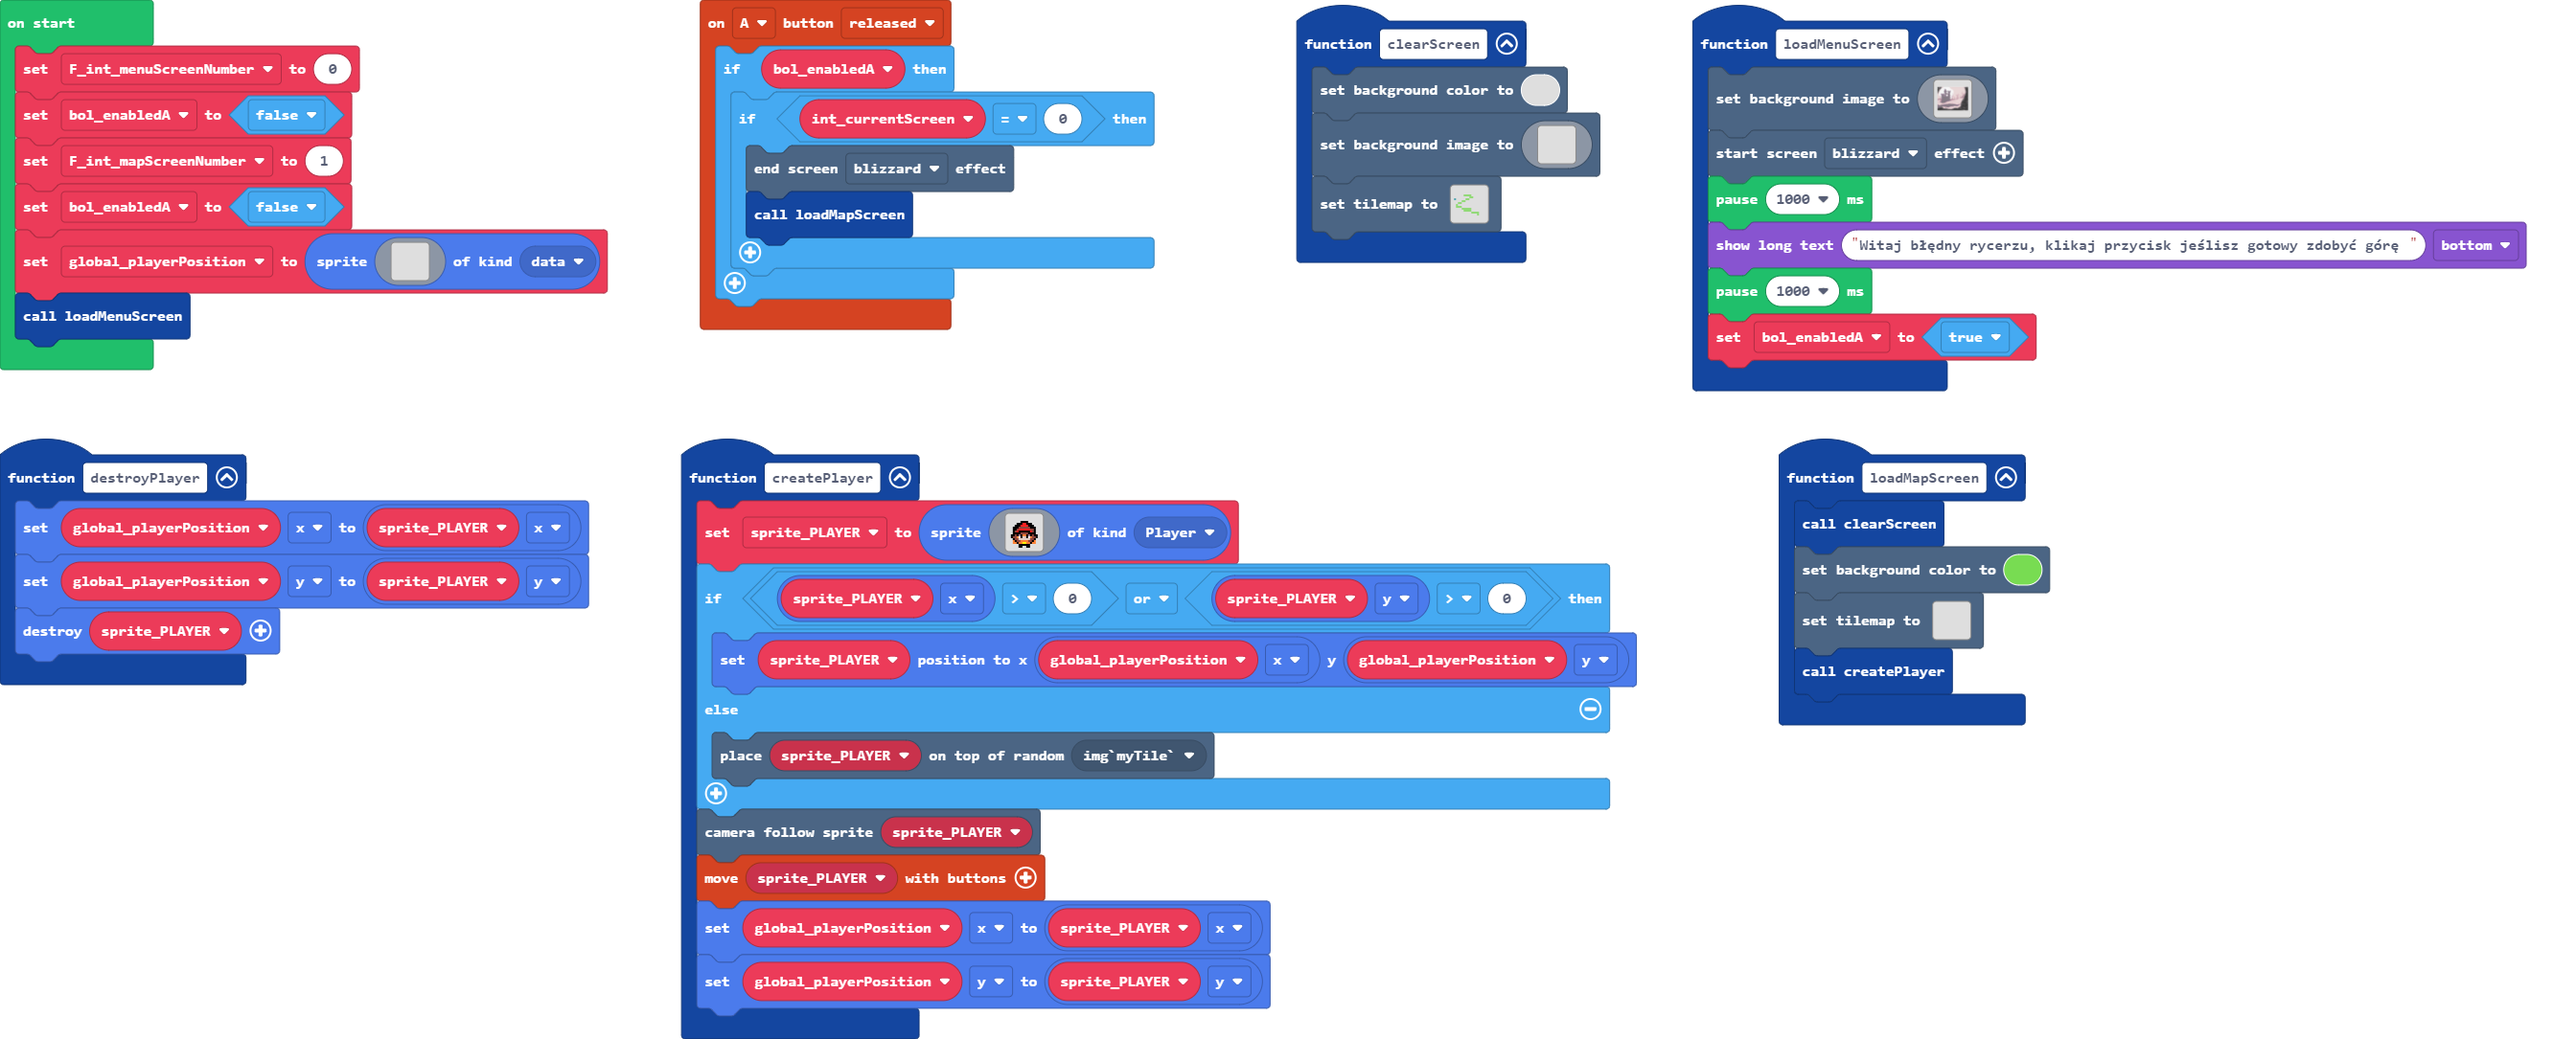
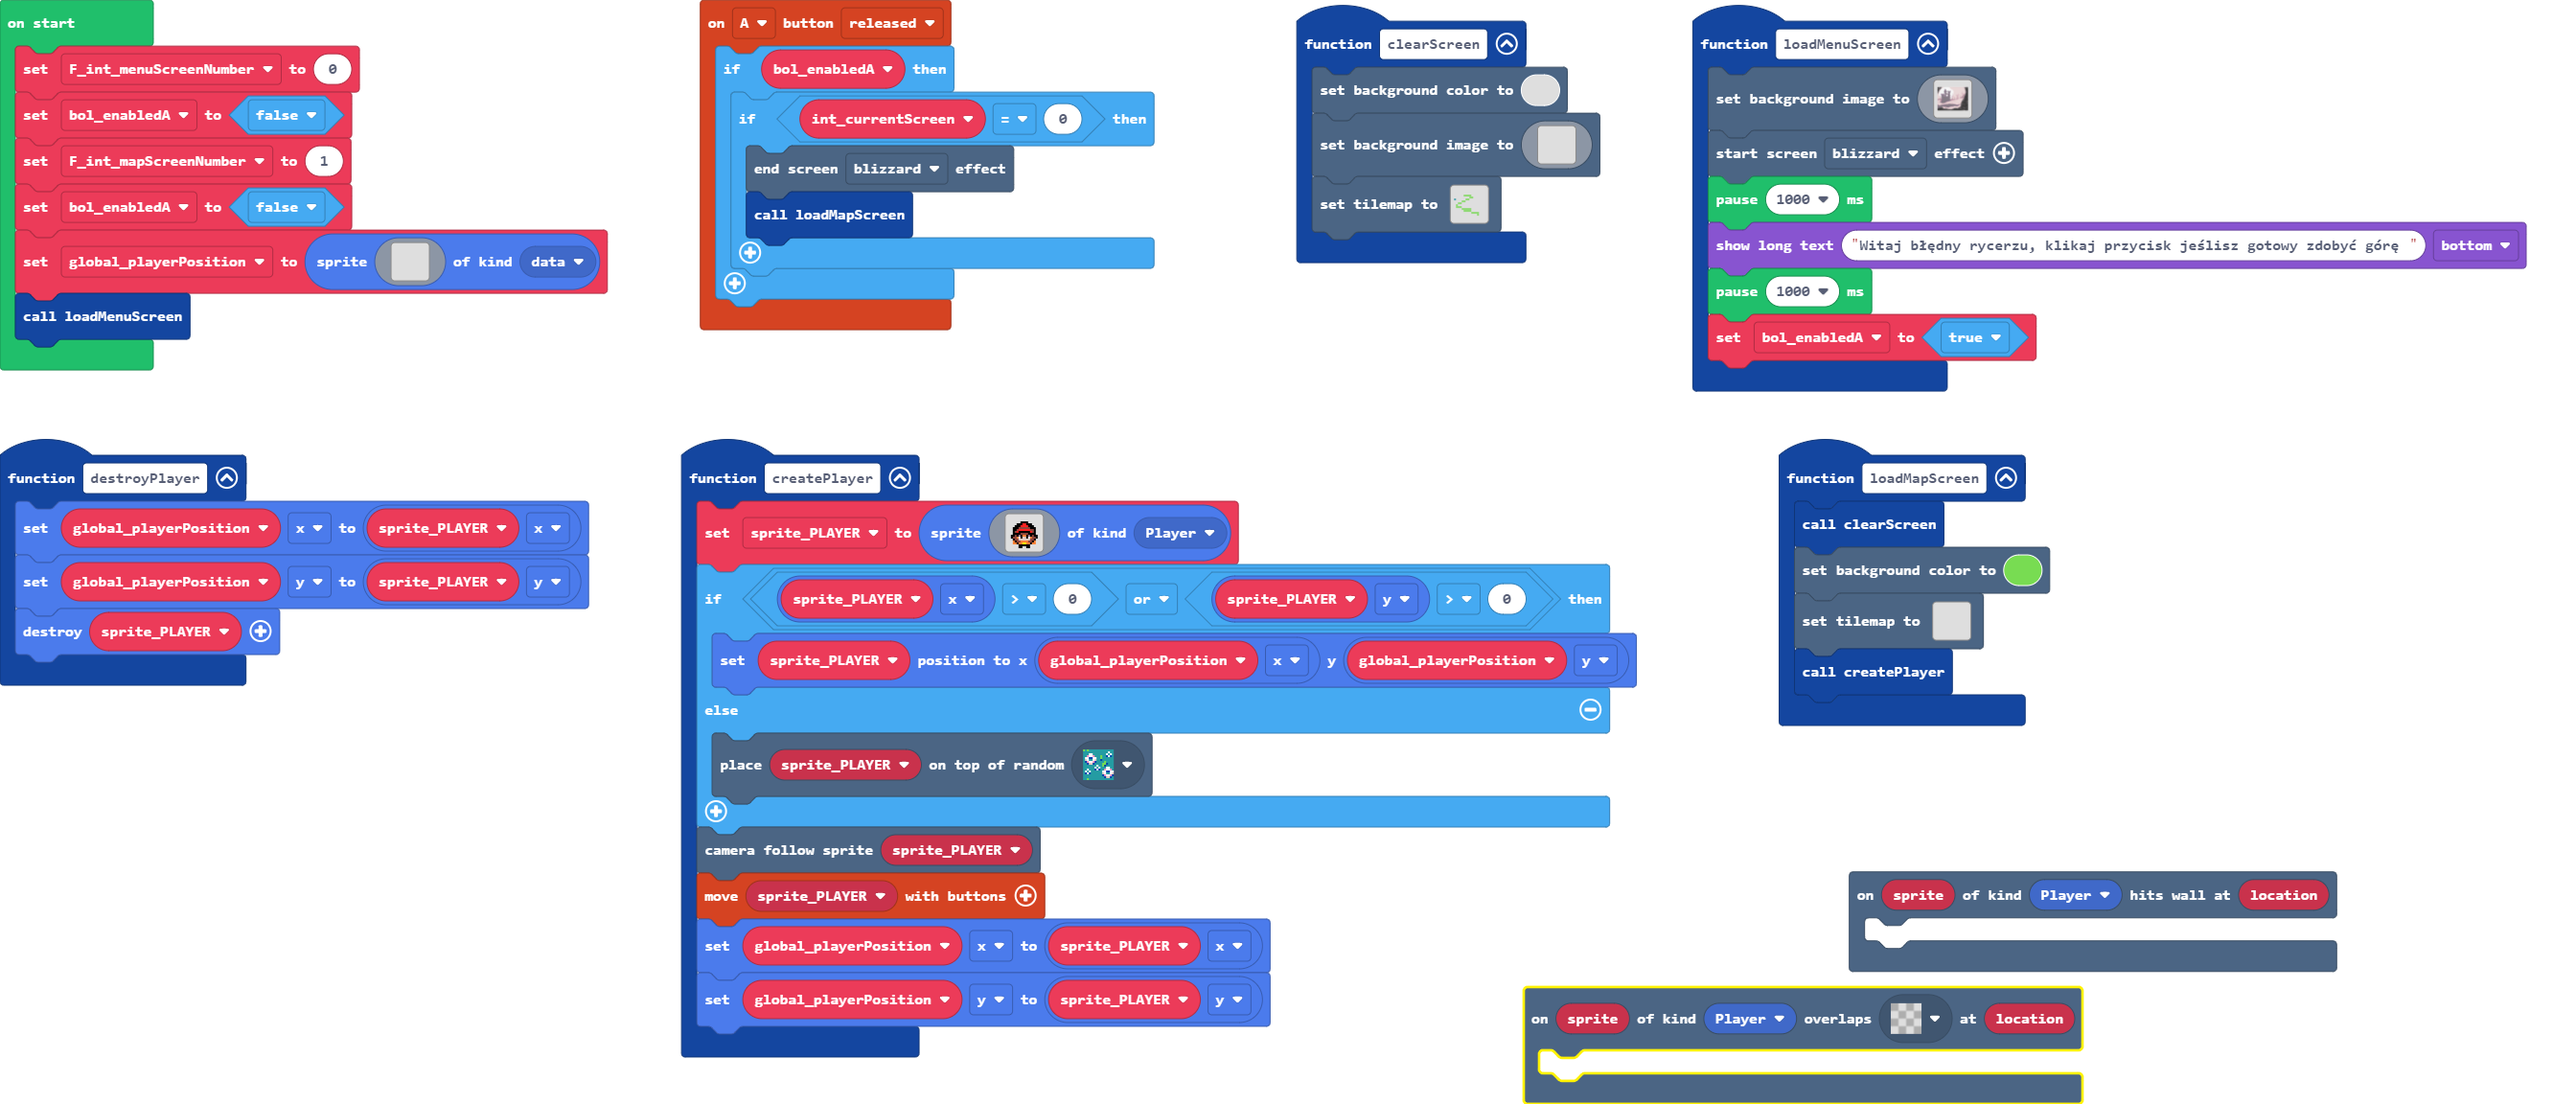
2

diff --git a/tilemap.g.ts b/tilemap.g.ts
@@ -81,6 +81,25 @@ namespace myTiles {
 . . . . . . . . . . . . . . . . 
 . . . . . . . . . . . . . . . . 
 `, [], -Infinity);
+            case "level5":
+            case "level5":return tiles.createTilemap(hex`1000100000000000000000000000000000000000000000000000000000000000000000000000000000000000000000000000000000000000000000000000000000000000000000000000000000000000000000000000000000000000000000000000000000000000000000000000000000000000000000000000000000000000000000000000000000000000000000000000000000000000000000000000000000000000000000000000000000000000000000000000000000000000000000000000000000000000000000000000000000000000000000000000000000000000000000000000000000000000000000000000000000000000000000000000000000000000`, img`
+. . . . . . . . . . . . . . . . 
+. . . . . . . . . . . . . . . . 
+. . . . . . . . . . . . . . . . 
+. . . . . . . . . . . . . . . . 
+. . . . . . . . . . . . . . . . 
+. . . . . . . . . . . . . . . . 
+. . . . . . . . . . . . . . . . 
+. . . . . . . . . . . . . . . . 
+. . . . . . . . . . . . . . . . 
+. . . . . . . . . . . . . . . . 
+. . . . . . . . . . . . . . . . 
+. . . . . . . . . . . . . . . . 
+. . . . . . . . . . . . . . . . 
+. . . . . . . . . . . . . . . . 
+. . . . . . . . . . . . . . . . 
+. . . . . . . . . . . . . . . . 
+`, [myTiles.transparency16], TileScale.Sixteen);
         }
         return null;
     })

diff --git a/main.ts b/main.ts
@@ -1,6 +1,9 @@
 namespace SpriteKind {
     export const data = SpriteKind.create()
 }
+scene.onHitWall(SpriteKind.Player, function (sprite, location) {
+	
+})
 function clearScreen () {
     scene.setBackgroundColor(0)
     scene.setBackgroundImage(img`
@@ -292,13 +295,16 @@ function createPlayer () {
     if (sprite_PLAYER.x > 0 || sprite_PLAYER.y > 0) {
         sprite_PLAYER.setPosition(global_playerPosition.x, global_playerPosition.y)
     } else {
-        tiles.placeOnRandomTile(sprite_PLAYER, img`myTile`)
+        tiles.placeOnRandomTile(sprite_PLAYER, sprites.castle.tileDarkGrass2)
     }
     scene.cameraFollowSprite(sprite_PLAYER)
     controller.moveSprite(sprite_PLAYER)
     global_playerPosition.x = sprite_PLAYER.x
     global_playerPosition.y = sprite_PLAYER.y
 }
+scene.onOverlapTile(SpriteKind.Player, assets.tile`transparency16`, function (sprite, location) {
+	
+})
 function loadMapScreen () {
     clearScreen()
     scene.setBackgroundColor(7)
